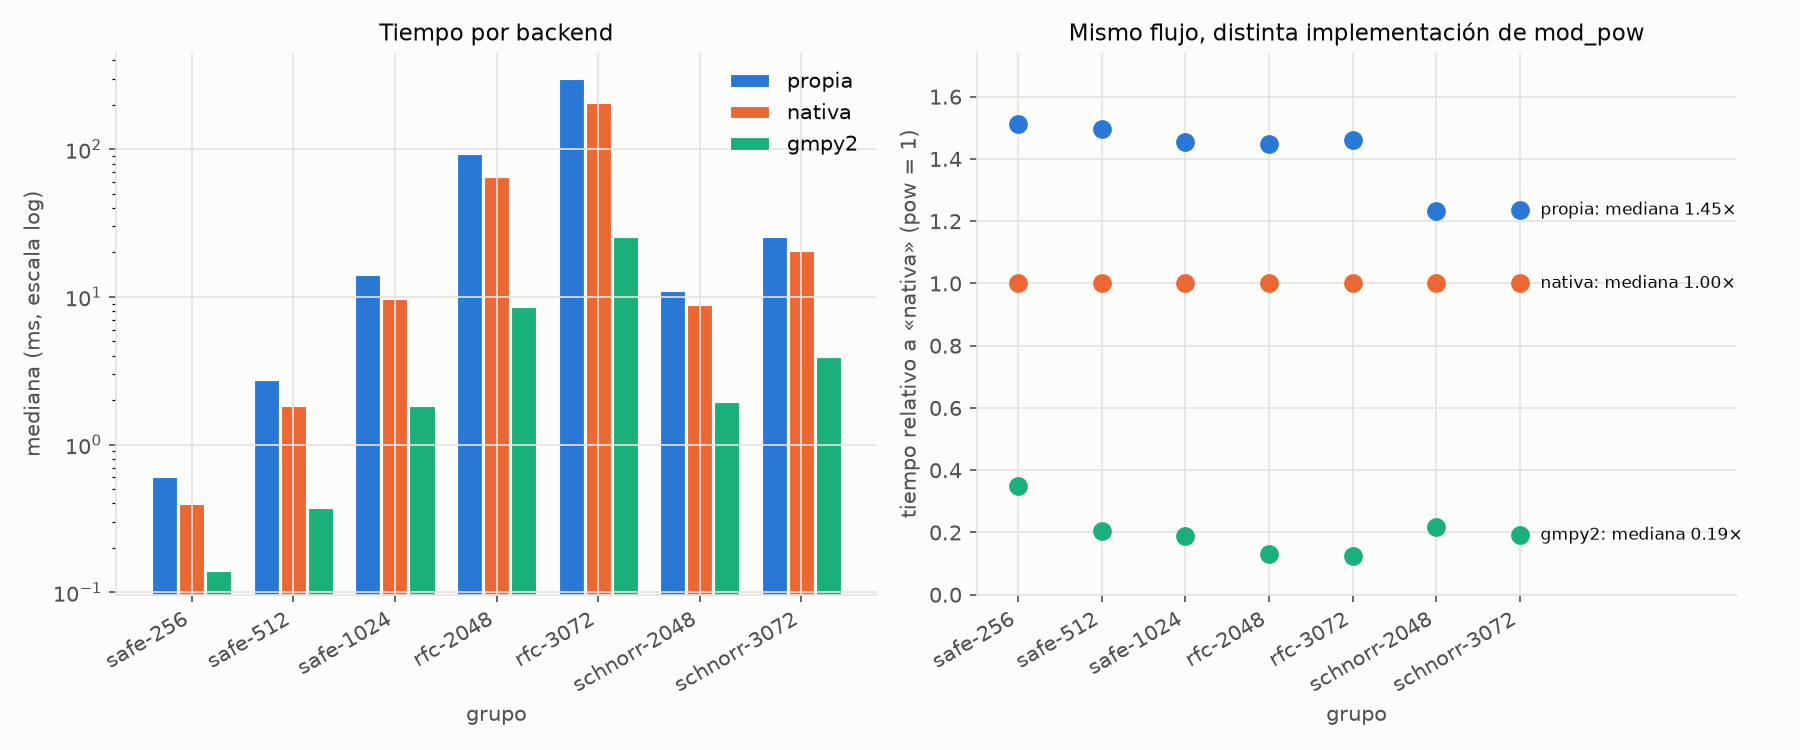
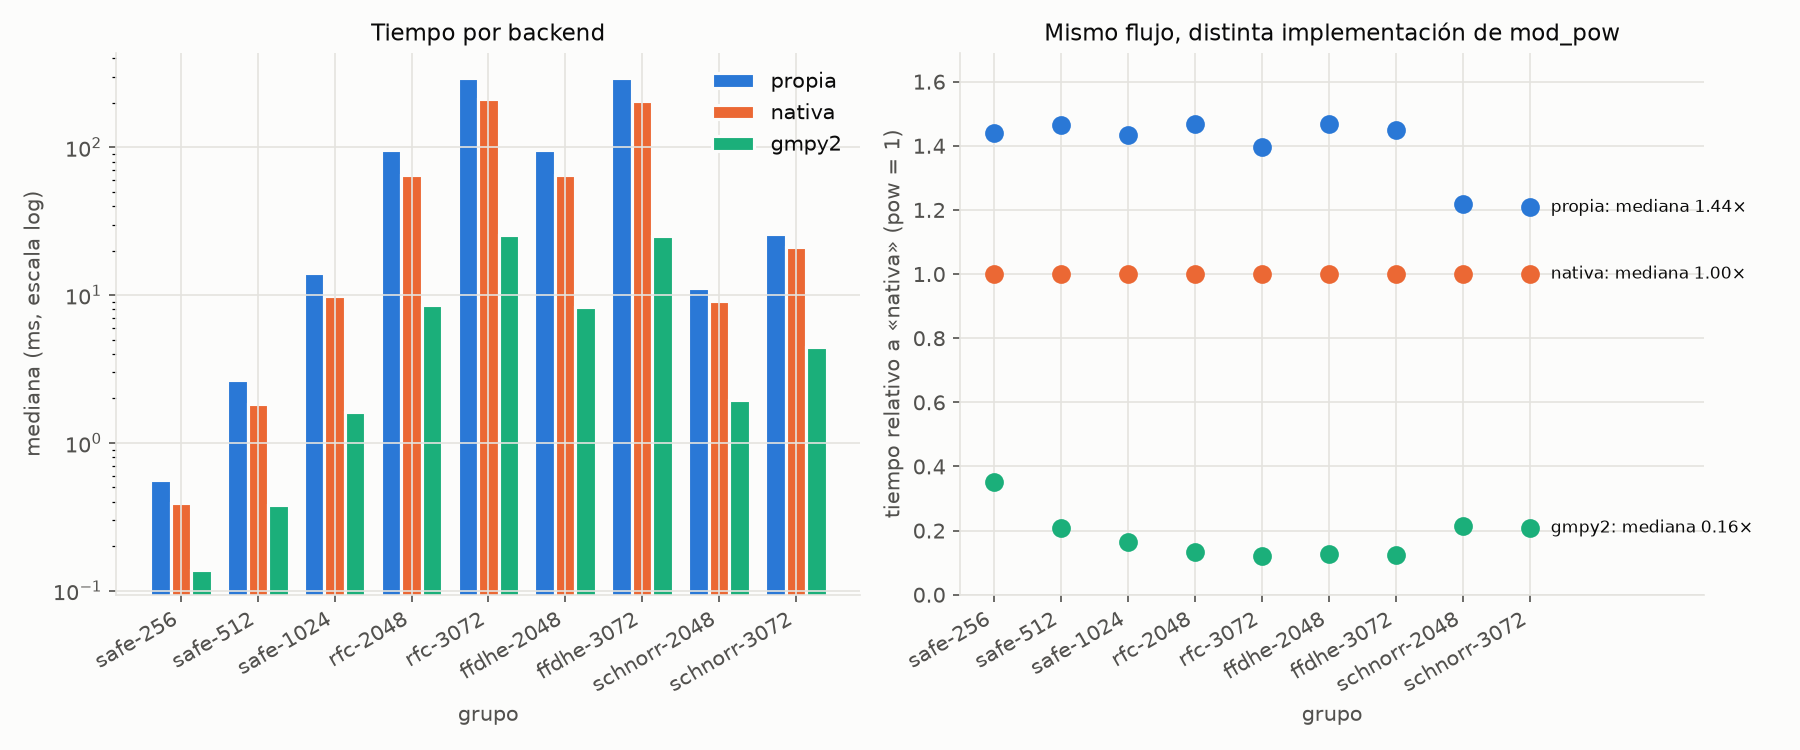
feat: serie ffdhe (RFC 7919) en la medición de latencia y resultados regenerados (R7)
Los grupos ffdhe forman una serie propia para no romper la cadena
safe-256 → ... → rfc-3072, y su nivel de seguridad es el del RFC. Las
etiquetas del eje x apilan las familias para que no se superpongan.
Resultados regenerados con python -m benchmark.latency: las cifras previas
se mantienen (rfc-2048 95.9 ms frente a 94.7 ms; razón 1024 → 2048 de 6.80).

diff --git a/benchmark/latency.py b/benchmark/latency.py
@@ -16,6 +16,9 @@ Diseño de la medición:
 - Razón medida: contra el tamaño anterior de la misma estructura y el mismo backend. Los grupos
   RFC 3526 también son primos seguros, así que safe-256 → safe-512 → safe-1024 → rfc-2048 →
   rfc-3072 forman una serie (incluye la duplicación 1024 → 2048 del escrito); los de Schnorr, otra.
+  Los grupos ffdhe del RFC 7919 (también primos seguros, g = 2) forman una serie aparte para no
+  romper la anterior: ffdhe-2048 → ffdhe-3072. Su nivel de seguridad es el que declara el RFC
+  (103 y 125 bits), no el de la tabla de NIST.
 - En los grupos de Schnorr el exponente tiene los bits de q (224 o 256), no k: el costo es del
   orden de (bits de q)·k², por eso son más rápidos con la misma seguridad.
 
@@ -33,6 +36,7 @@ import time
 import warnings
 from pathlib import Path
 
+from core.params import declared_security_bits
 from protocol import ARITHMETIC_BACKENDS, GroupParams, get_group, use_backend
 from protocol.bank import Bank
 from protocol.client import Client
@@ -43,13 +47,15 @@ WARMUP_AUTHS = 1
 USER_ID = "cliente01"
 RESULTS_DIR = Path(__file__).resolve().parent.parent / "results"
 GROUPS_TO_MEASURE = ("safe-256", "safe-512", "safe-1024", "rfc-2048", "rfc-3072",
-                     "schnorr-2048", "schnorr-3072")
+                     "ffdhe-2048", "ffdhe-3072", "schnorr-2048", "schnorr-3072")
 DEFAULT_BACKENDS = ARITHMETIC_BACKENDS
 SCHOOLBOOK_EXPONENT = 3                       # predicción del escrito: k³
 KARATSUBA_EXPONENT = 1 + math.log2(3)         # ≈ 2.585
 NIST_SECURITY_BITS = {1024: 80, 2048: 112, 3072: 128}   # definición 10 (Barker, 2020)
 BELOW_MIN_SECURITY = "<80"
-SAFE_SERIES, SCHNORR_SERIES = "primo seguro", "schnorr"
+SAFE_SERIES, SCHNORR_SERIES, FFDHE_SERIES = "primo seguro", "schnorr", "ffdhe (RFC 7919)"
+SERIES_ORDER = (SAFE_SERIES, FFDHE_SERIES, SCHNORR_SERIES)
+FFDHE_FAMILY = "ffdhe"
 CSV_FIELDS = ("name", "family", "series", "bits_p", "bits_q", "security_bits", "backend", "reps",
               "median_s", "previous", "ratio", "pred_k3", "pred_karatsuba", "err_k3", "err_karatsuba")
 
@@ -102,8 +108,17 @@ def family_of(name: str) -> str:
     return name.split("-")[0]
 
 
-def _series(gp: GroupParams) -> str:
+def series_of(name: str, gp: GroupParams) -> str:
+    """Serie de la comparación: ffdhe (RFC 7919), primo seguro o schnorr. Cubre R7."""
+    if family_of(name) == FFDHE_FAMILY:
+        return FFDHE_SERIES
     return SAFE_SERIES if gp.is_safe_prime else SCHNORR_SERIES
+
+
+def _security(name: str, gp: GroupParams) -> int | str:
+    """El nivel que declara la fuente del grupo (RFC 7919) o, si no hay, el de la definición 10."""
+    declared = declared_security_bits(name)
+    return declared if declared is not None else security_bits(gp.bits, gp.q.bit_length())
 
 
 def _relative_error(measured: float, predicted: float) -> float:
@@ -123,7 +138,7 @@ def _comparison(row: dict, previous: dict | None) -> dict:
 
 def add_predictions(rows: list[dict]) -> list[dict]:
     """Ordena por serie y tamaño y agrega razón, predicciones y error relativo a cada fila. Cubre R7."""
-    ordered = sorted(rows, key=lambda r: (r["series"] != SAFE_SERIES, r["bits_p"]))
+    ordered = sorted(rows, key=lambda r: (SERIES_ORDER.index(r["series"]), r["bits_p"]))
     last_seen: dict[tuple[str, str], dict] = {}
     result = []
     for row in ordered:
@@ -147,8 +162,8 @@ def _usable_backends(backends: tuple[str, ...] | list[str]) -> list[str]:
 
 def _measure_group(name: str, backends: list[str], reps: int) -> list[dict]:
     gp = get_group(name)
-    base = {"name": name, "family": family_of(name), "series": _series(gp), "bits_p": gp.bits,
-            "bits_q": gp.q.bit_length(), "security_bits": security_bits(gp.bits, gp.q.bit_length())}
+    base = {"name": name, "family": family_of(name), "series": series_of(name, gp), "bits_p": gp.bits,
+            "bits_q": gp.q.bit_length(), "security_bits": _security(name, gp)}
     rows = []
     for backend in backends:
         with use_backend(backend):
@@ -162,8 +177,8 @@ def measure(groups: list[str] | None = None, reps: int = DEFAULT_REPS,
     """Una fila por (grupo, backend): name, family, bits_p, bits_q, security_bits, backend, mediana,
     razón con el tamaño anterior y predicciones k³ y k^2.585 con su error relativo. Cubre R7.
 
-    Por defecto mide safe-256, safe-512, safe-1024, rfc-2048, rfc-3072, schnorr-2048 y
-    schnorr-3072 con los tres backends. Guarda results/latency.csv y results/latency.json
+    Por defecto mide safe-256, safe-512, safe-1024, rfc-2048, rfc-3072, ffdhe-2048, ffdhe-3072,
+    schnorr-2048 y schnorr-3072 con los tres backends. Guarda results/latency.csv y results/latency.json
     (con results_dir=None no guarda nada).
     """
     usable = _usable_backends(backends)

diff --git a/benchmark/plots.py b/benchmark/plots.py
@@ -11,7 +11,7 @@ from benchmark.latency import KARATSUBA_EXPONENT, SAFE_SERIES, SCHOOLBOOK_EXPONE
 
 SURFACE, TEXT, TEXT_MUTED, GRID = "#fcfcfb", "#0b0b0b", "#52514e", "#e4e3df"
 BACKEND_COLORS = {"propia": "#2a78d6", "nativa": "#eb6834", "gmpy2": "#1baf7a"}
-SERIES_STYLES = {"primo seguro": ("-", "o"), "schnorr": ("--", "D")}
+SERIES_STYLES = {"primo seguro": ("-", "o"), "schnorr": ("--", "D"), "ffdhe (RFC 7919)": ((0, (6, 2, 1, 2)), "s")}
 REFERENCE_BACKEND = "propia"         # las rectas k³ y k^2.585 parten de su primer punto
 BASELINE_BACKEND = "nativa"          # en backends.png los tiempos se expresan relativos a pow
 MARKER_SIZE = 8
@@ -69,7 +69,7 @@ def _reference_lines(ax, rows: list[dict]) -> None:
 
 
 def _bits_ticks(ax, rows: list[dict]) -> None:
-    """Marcas del eje x en los tamaños medidos, con las familias de cada tamaño debajo."""
+    """Marcas del eje x en los tamaños medidos, con las familias de cada tamaño debajo (una por línea)."""
     families: dict[int, list[str]] = {}
     for row in rows:
         names = families.setdefault(row["bits_p"], [])
@@ -77,7 +77,7 @@ def _bits_ticks(ax, rows: list[dict]) -> None:
             names.append(row["family"])
     ticks = sorted(families)
     ax.set_xticks(ticks)
-    ax.set_xticklabels([f"{k}\n{' · '.join(families[k])}" for k in ticks])
+    ax.set_xticklabels(["\n".join((str(k), *families[k])) for k in ticks])
     ax.minorticks_off()
 
 

diff --git a/tests/test_latency.py b/tests/test_latency.py
@@ -57,6 +57,19 @@ def test_razon_y_predicciones_usan_el_tamano_anterior_de_la_misma_serie_y_backen
 
 
 @pytest.mark.req("R7")
+def test_ffdhe_forma_su_propia_serie_con_la_seguridad_del_rfc_7919(monkeypatch):
+    monkeypatch.setattr(latency, "measure_auth", lambda gp, reps: gp.bits / 1e6)
+    rows = latency.measure(groups=["rfc-2048", "ffdhe-3072", "ffdhe-2048"], reps=1, backends=("propia",),
+                           results_dir=None)
+    assert [r["name"] for r in rows] == ["rfc-2048", "ffdhe-2048", "ffdhe-3072"]
+    ffdhe_2048, ffdhe_3072 = rows[1], rows[2]
+    assert ffdhe_2048["series"] == ffdhe_3072["series"] == latency.FFDHE_SERIES
+    assert (ffdhe_2048["security_bits"], ffdhe_3072["security_bits"]) == (103, 125)
+    assert ffdhe_2048["previous"] is None and ffdhe_3072["previous"] == "ffdhe-2048"
+    assert rows[0]["security_bits"] == 112
+
+
+@pytest.mark.req("R7")
 def test_measure_guarda_tabla_y_graficas(tmp_path):
     rows = latency.measure(groups=FAST_GROUPS, reps=3, backends=FAST_BACKENDS, results_dir=tmp_path)
     latency.plot(rows, tmp_path)
